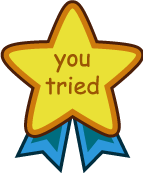
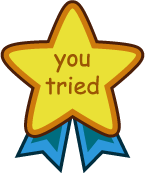
You tried

diff --git a/src/scripts/state/end.ts b/src/scripts/state/end.ts
@@ -155,8 +155,18 @@ module Alak.State {
             }, this);
 
             this.playAgainButton.onDownSound = new Phaser.Sound(this.game, 'btn-click');
-
             this.add.existing(this.playAgainButton);
+
+            let youTried = new Phaser.Sprite(this.game, 365, 405, 'you-tried');
+            youTried.scale.set(0, 0);
+            youTried.anchor.set(0.5, 0.5);
+
+            this.add.existing(youTried);
+
+            this.game.add.tween(youTried.scale).to({
+                x: 1,
+                y: 1
+            }, 800, Phaser.Easing.Bounce.Out, true, 1000);
         }
 
         shutdown() {

diff --git a/src/scripts/state/preloader.ts b/src/scripts/state/preloader.ts
@@ -25,6 +25,7 @@ module Alak.State {
             this.load.image('btn-continue', 'assets/images/continue.png');
             this.load.image('btn-play-again', 'assets/images/play_again.png');
             this.load.image('title-total', 'assets/images/total_score.png');
+            this.load.image('you-tried', 'assets/images/you_tried.png');
 
             for (let i = 1; i <= Entity.Subject.FACE_PERMS; i++) {
                 Entity.Subject.FACE_PIECES.forEach(function (piece) {
